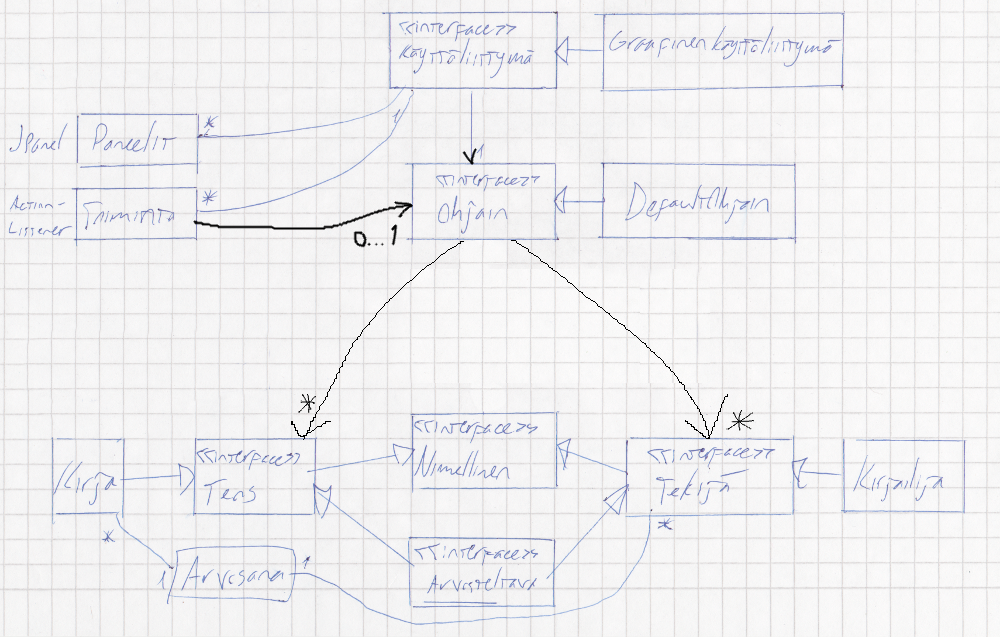
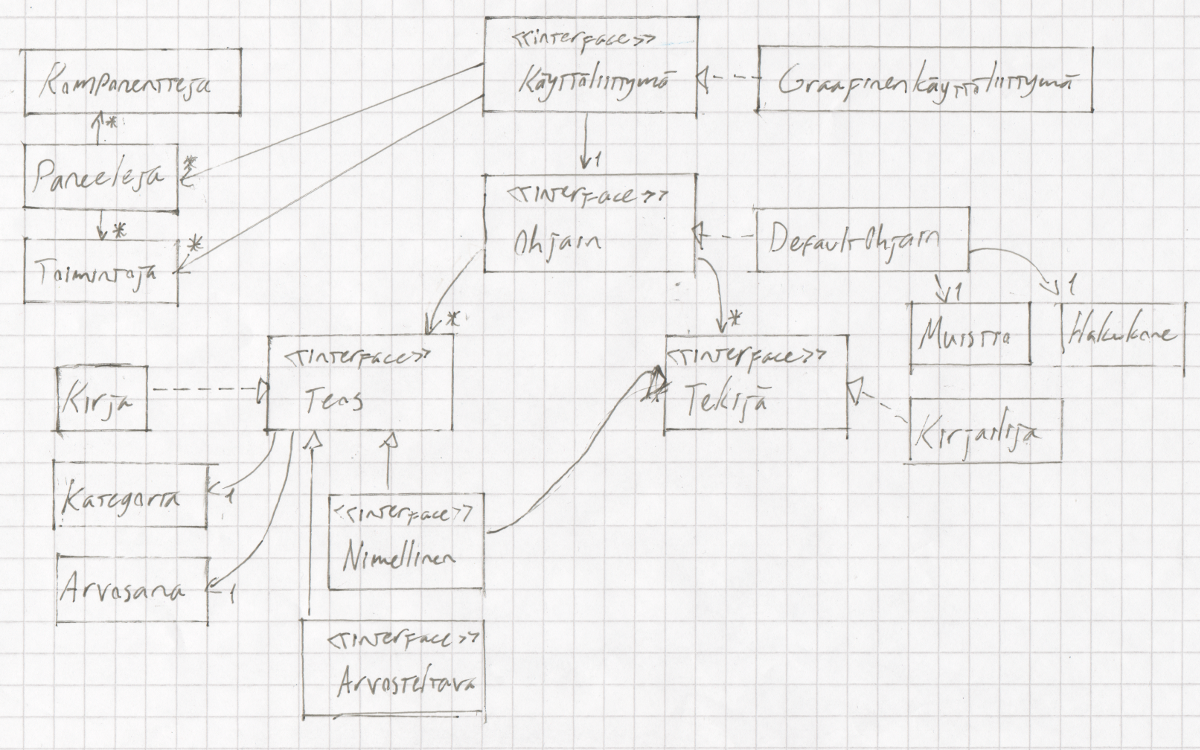
deadline viimeistelyä - testejä, dokumentointia, piirroksia

diff --git a/dokumentointi/aiheenKuvausJaRakenne.md b/dokumentointi/aiheenKuvausJaRakenne.md
@@ -1,15 +1,14 @@
 ####Lukulistan kuvaus ja rakenne
 #####Lyhyt aihemäärittely
 
-**Aihe:** Lukulistaan voi lisätä jo luettuja, kesken olevia tai backlogiin kirjoja/sarjakuvia yms. jos lukeminen on suunnitteilla. Lisättyyn sisältöön voi lisätä omia tageja, kategorioita tai arvostella niitä. Listalta voi etsiä, sitä voi järjestää ja filtteröidä eri perustein. Ohjelma osaa tallentaa lisätyn sisällön ja ladata sen myöhemmin. Myöhemmin voi laajentaa ohjelmaa peleihin, elokuviin tai muuhun. Olisi kiva jos ohjelma osaisi etsiä ja näyttää kansikuvan ja muita tietoja nimen perusteella jonkin sivun APIn kautta.
+**Aihe:** Lukulistaan voi lisätä jo luettuja, kesken olevia tai backlogiin kirjoja/sarjakuvia yms. jos lukeminen on suunnitteilla. Lisättyjä teoksia voi muokata, arvostella ja vaihtaa niiden kategoriaa. Listalta voi etsiä, sitä voi järjestää ja filtteröidä eri perustein. Ohjelma osaa tallentaa lisätyn sisällön ja ladata sen myöhemmin. Myöhemmin voi laajentaa ohjelmaa peleihin, elokuviin tai muuhun. Olisi kiva jos ohjelma osaisi etsiä ja näyttää kansikuvan ja muita tietoja nimen perusteella jonkin sivun APIn kautta.
 
 **Käyttäjät:** Peruskäyttäjä
 
 **Toiminnot:** 
 * Uuden teoksen lisäys
 * Teoksen tietojen päivitys/poisto
-* Tagin lisääminen
-* Kategoriaan lisääminen
+* Kategorian vaihto
 * Teoksen arvostelu
 * Teosten listaus
 * Listan järjestäminen eri kriteerien mukaan

diff --git a/dokumentointi/tuntikirjanpito.md b/dokumentointi/tuntikirjanpito.md
@@ -11,3 +11,4 @@
 **30.12.** 3 tuntia graafisen käyttöliittymän jatkamiseen  
 **2.1.** 3 tuntia graafisen käyttöliittymän jatkamiseen, javadociin, refaktorointiin  
 **6.1.** 2,5 tuntia tiedostoon tallennuksen/latauksen toteutukseen, käyttöliittymän säätöön, koodin yksinkertaistamiseen  
+**6.1** 4 tuntia dokumentoinnin ja testien päivittämiseen, sekvenssikaavioihin
